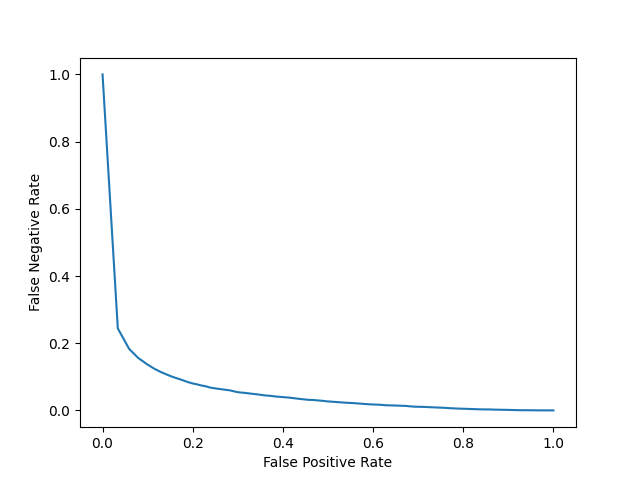
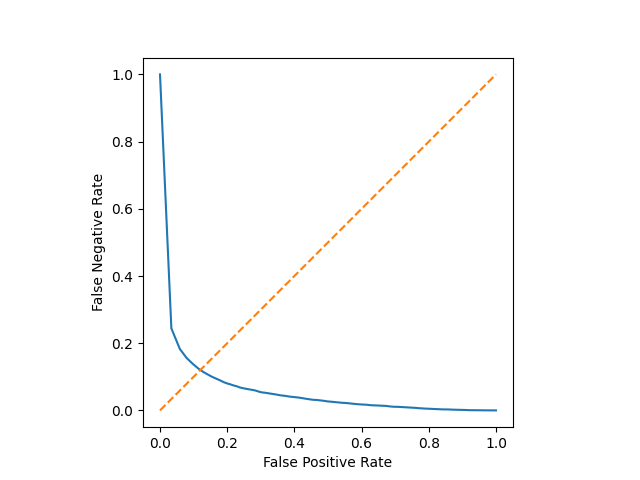
Add line for point of equal error rate

diff --git a/util.py b/util.py
@@ -142,7 +142,9 @@ def perform_analysis(model, test_x, test_y, threshold_to_test, output_dir, cf_th
     plt.savefig('./plots/'+output_dir+'/roc.png')
 
     plt.clf()
+    plt.axis('scaled')
     plt.plot(fpr_list, fnr_list)
+    plt.plot([0,1], [0,1], linestyle='dashed')
     plt.axis([-0.05, 1.05, -0.05, 1.05])
     plt.xlabel('False Positive Rate')
     plt.ylabel('False Negative Rate')
